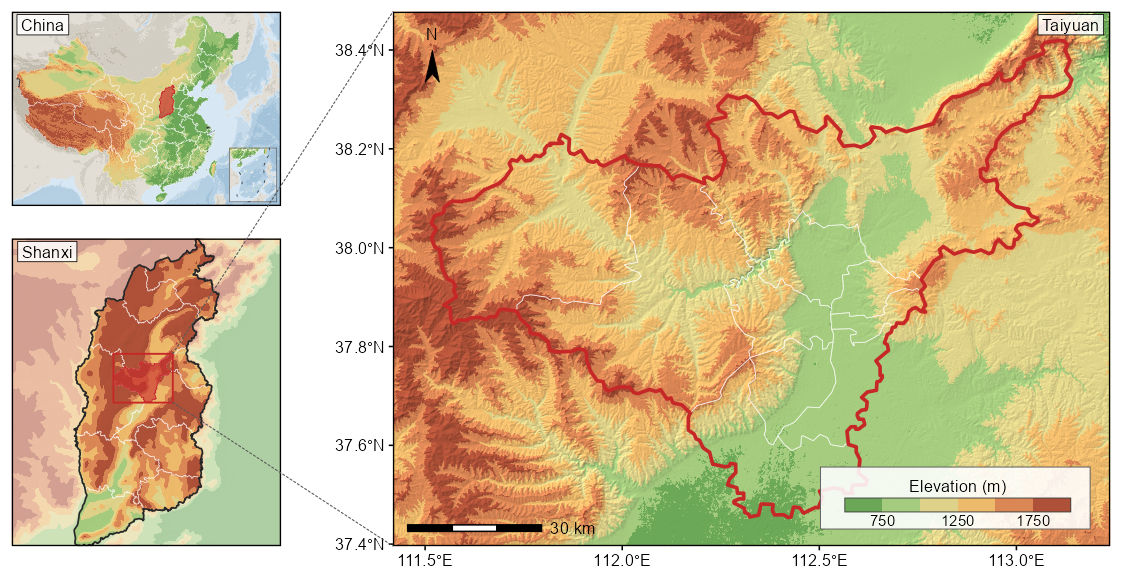
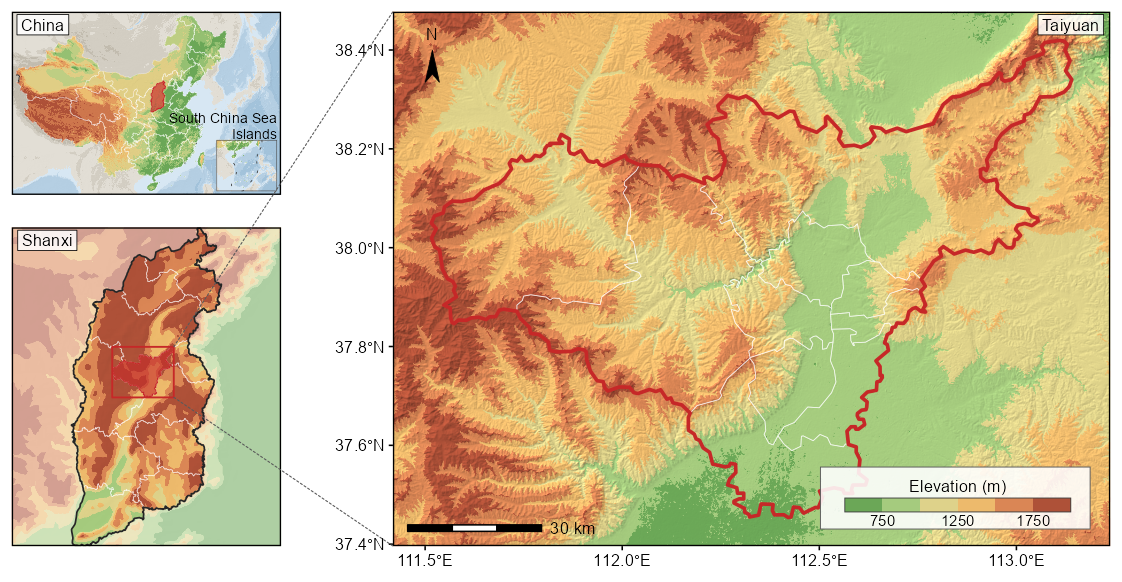
中国地图必备内容核查与底图来源说明
查证《公开地图内容表示规范》（自然资规〔2023〕2 号）后发现一处不合规：南海诸岛
作附图时须命名（第六条第三款），原角框无名称。已加「South China Sea Islands」
标注，并按名称所需宽度重定角框尺寸与位置。

新增 check_cn_content()：核查曾母暗沙、黄岩岛、西沙、钓鱼岛、赤尾屿是否落在
图框（含角框）内。两个三级示例均通过。函数注释与文档均写明这只是覆盖性核查，
不是合规判定，合规取决于边界数据、注记与送审，本技能不作担保。

README 增加「中国地图的底图」一节：边界数据由使用者自备（标准地图服务下载），
仓库不分发；示例以 GS（2024）0650 号数据作示范，最终以使用者自备版本为准；
列出规范条款；说明公开发表前须按《地图管理条例》送审。

一并给出附图方案的实测代价：45.6 mm 定位框下，南海走角框使中国框由 46.7 mm
压到 31.0 mm、窗口东扩到约 150 度，故定位面板尺寸小时建议放正图。

Changed region(s): [[0.0, 0.0, 0.2496, 0.9588], [0.2496, 0.8041, 0.2807, 0.8351]]

diff --git a/SKILL.md b/SKILL.md
@@ -370,6 +370,12 @@ An elongated study area leaves exactly two usable corners, on the long axis's of
 
 ## Source data
 
+**A map of China has mandatory content, set by regulation.** 公开地图内容表示规范 (自然资规〔2023〕2 号) requires that a map of China show, besides the mainland, Hainan Island and Taiwan Island, the South China Sea Islands and the Diaoyu Dao islands (第五条第二款); that the South China Sea Islands include the Dongsha, Xisha, Zhongsha and Nansha groups with Zengmu Ansha and Huangyan Dao (第六条第五款); that they may sit either in the main frame or in an inset (第六条第二款); and that an inset carrying them be named 南海诸岛 (第六条第三款). National boundaries follow the standard sample approved by the State Council (第三条).
+
+`check_cn_content()` tests whether the frames a figure draws — main plus inset — cover those features. It is a coverage test only. Whether a published map complies depends on the boundary data, the naming and the review process, none of which code can judge; use a downloaded approved standard map and have the figure reviewed before publication.
+
+The naming requirement has a practical consequence. An inset must be large enough to carry its name, and a larger inset forces the window further out to keep the corner clear, so the country is drawn smaller. Measured on a 45.6 mm locator panel, moving the South China Sea into an inset took the China panel from 46.7 mm to 31.0 mm and pushed the window east to about 150°E. At locator size, put them in the main frame.
+
 **Boundary vectors decide credibility; get them from the authoritative publisher for your region**, not from whatever a plotting package happens to bundle. Record the dataset name, version and download date, and put them in the figure caption. Package-bundled geometry usually documents neither, which is enough reason to prefer a named source.
 
 **Elevation is not a boundary.** GEBCO, ASTER GDEM, SRTM and similar rasters are independent of any administrative dataset, so pairing an open DEM with a named boundary source is normal practice. Cite the DEM separately.
